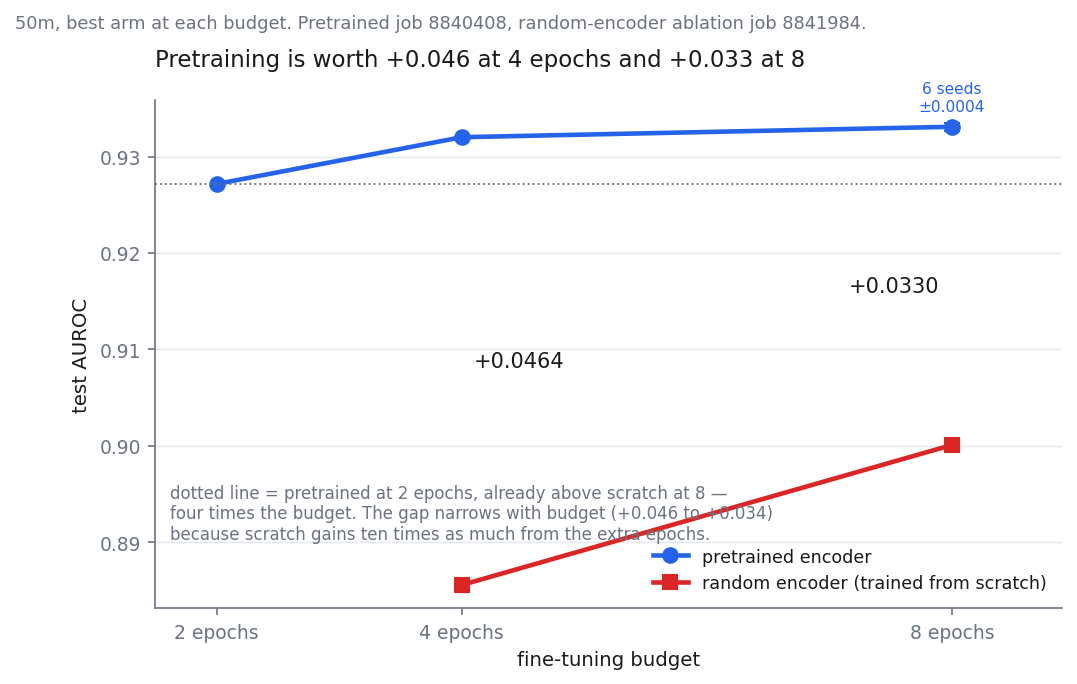
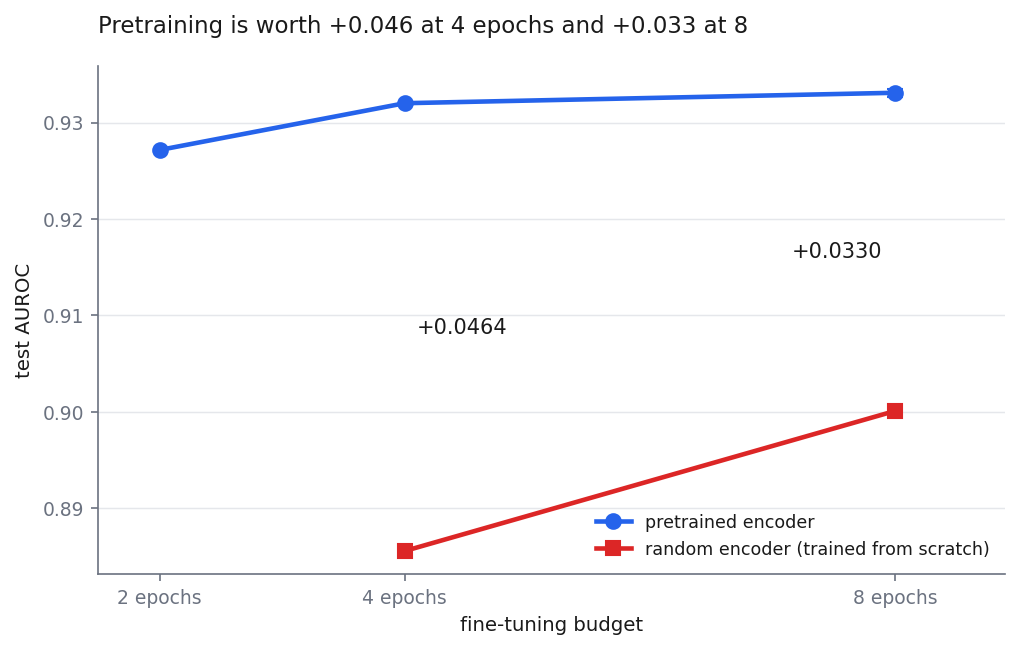
Strip the prose from the ablation figure
Removed the dotted 2-epoch reference line, its three-line caption, the seed
annotation and the suptitle. Two lines, two gap numbers, a title.

Claude-Session: https://claude.ai/code/session_01ATgkXx1oRRqvzB3G8wYeta

diff --git a/sweeps/plot_denoise.py b/sweeps/plot_denoise.py
@@ -384,8 +384,6 @@ def fig_pretrain_ablation(runs: Path) -> None:
         vals = [r["test_auroc"] for r in ep8.values()]
         ax.errorbar([8], [float(np.mean(vals))], yerr=[float(np.std(vals, ddof=1))],
                     fmt="none", ecolor=BLUE, capsize=4, lw=1.4, zorder=6)
-        ax.text(8, P[8] + 0.0013, f"6 seeds\n±{np.std(vals, ddof=1):.4f}", fontsize=7.4,
-                color=BLUE, ha="center", va="bottom", linespacing=1.3)
     # Both comparisons as VERTICAL arrows against a horizontal reference. The earlier
     # version drew the double-budget gap as one diagonal from (4, pretrained) to
     # (8, scratch), which cut across the whole figure and crossed both data lines.
@@ -396,12 +394,6 @@ def fig_pretrain_ablation(runs: Path) -> None:
             va="center", ha="left")
     ax.text(7.9, (top8 + S[8]) / 2, f"+{top8-S[8]:.4f}", fontsize=10, color=INK,
             va="center", ha="right")
-    ax.axhline(P[2], color=MUTED, lw=0.9, ls=":")
-    ax.text(1.62, S[8] - 0.004,
-            "dotted line = pretrained at 2 epochs, already above scratch at 8 —\n"
-            "four times the budget. The gap narrows with budget (+0.046 to +0.034)\n"
-            "because scratch gains ten times as much from the extra epochs.",
-            fontsize=8, color=MUTED, va="top")
 
     ax.set_xticks(xs); ax.set_xticklabels([f"{e} epochs" for e in xs])
     ax.set_xlim(1.5, 8.9)
@@ -411,9 +403,6 @@ def fig_pretrain_ablation(runs: Path) -> None:
                  loc="left", pad=16)
     ax.grid(axis="y"); ax.set_axisbelow(True)
     ax.legend(frameon=False, fontsize=8.4, loc="lower right")
-    fig.suptitle("50m, best arm at each budget. Pretrained job 8840408, "
-                 "random-encoder ablation job 8841984.",
-                 x=0.005, ha="left", fontsize=8.5, color=MUTED, y=1.01)
     fig.savefig(FIGS / "pretrain_ablation.png")
     plt.close(fig)
 
